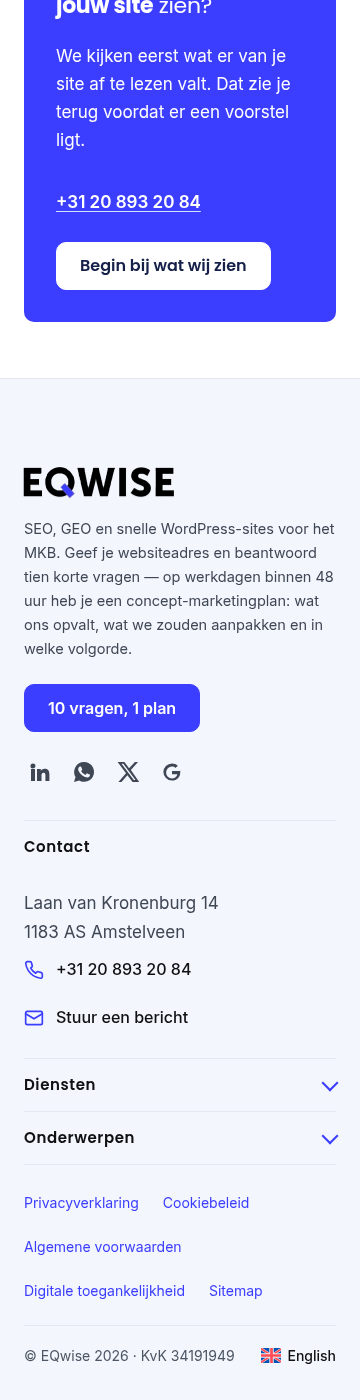
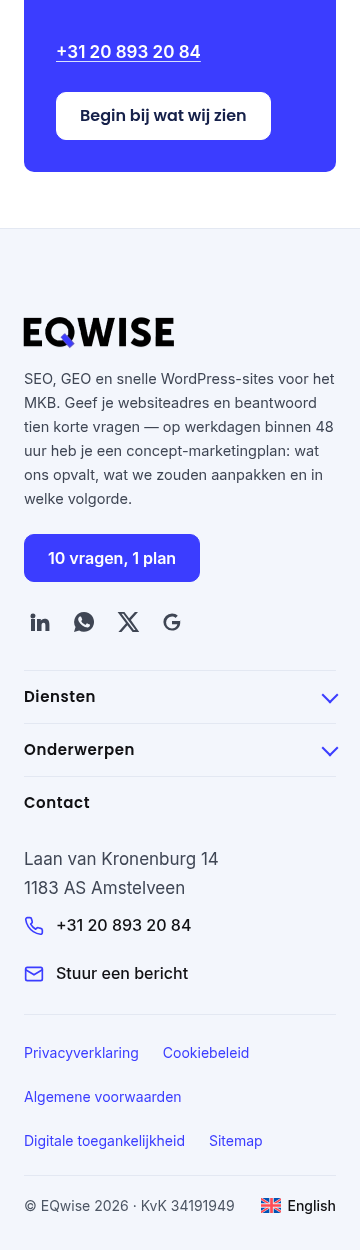
Footer mobiel: Contact onderaan, wel altijd open (wens Martin)
Claude-Session: https://claude.ai/code/session_01Aqojb1Sah9Aj4YGDLnYanC

diff --git a/ontwerp/footer-mobiel/eq-mobiel-9.70-voet.css b/ontwerp/footer-mobiel/eq-mobiel-9.70-voet.css
@@ -7,8 +7,9 @@
    beeld staat; Diensten stond open en de andere twee dicht. In het
    voettemplate staat de contactkolom nu als eerste kolom met een kop. Het
    script in eq-interactie.js zet op telefoon alleen de eerste uitklapper
-   open, en dat is daardoor Contact. Op 768 en breder zet `order` de
-   contactkolom terug als laatste kolom, dus desktop blijft zoals hij was.
+   open, en dat is daardoor Contact. `order` zet de contactkolom daarna
+   weer als laatste: op desktop als vierde kolom, op telefoon onderaan
+   onder Diensten en Onderwerpen (wens Martin, 12 okt 2026), wel open.
    Verder: de knop compact zoals op desktop, de juridische links links
    uitgelijnd in de merkkleur, copyright en taalkeuze samen op de slotregel.
    Alleen kindselectors: LiteSpeed schrijft `.a .b` terug naar `.b`.
@@ -29,10 +30,8 @@
 	display: none;
 }
 
-@media (min-width: 768px) {
-	.eq-voet-kolommen.eq-voet-kolommen > .eq-voet-contactkolom {
-		order: 1;
-	}
+.eq-voet-kolommen.eq-voet-kolommen > .eq-voet-contactkolom {
+	order: 1;
 }
 
 @media (max-width: 767px) {
@@ -53,10 +52,21 @@
 		margin-block-start: var(--eq-r24);
 	}
 
-	/* ---- contact: altijd open, geen uitklapper --------------------------- */
-	.eq-voet-kolommen.eq-voet-kolommen > .eq-voet-contactkolom {
+	/* ---- de kolommen als stapel, zodat `order` werkt ---------------------- */
+	.eq-voet-kolommen.eq-voet-kolommen {
+		display: flex;
+		flex-direction: column;
+		/* de grid-tussenruimte van de basis telt in een flexstapel ook mee */
+		gap: 0;
+	}
+
+	/* De eerste linkgroep onder het merkblok (Diensten, derde kind) krijgt
+	   lucht, zodat de social-iconen niet tegen de lijn staan. */
+	.eq-voet-kolommen.eq-voet-kolommen > :nth-child(3) {
 		margin-top: var(--eq-r32);
 	}
+
+	/* ---- contact: onderaan, altijd open, geen uitklapper ------------------ */
 
 	.eq-voet-contactkolom.eq-voet-contactkolom > .eq-voet-uitklap > summary {
 		pointer-events: none;
@@ -99,8 +109,8 @@
 		margin-top: 0;
 	}
 
-	/* ---- de linkgroepen sluiten af met een lijn -------------------------- */
-	.eq-voet-kolommen.eq-voet-kolommen > :last-child > .eq-voet-uitklap {
+	/* ---- contact sluit de kolommen af met een lijn ----------------------- */
+	.eq-voet-contactkolom.eq-voet-contactkolom > .eq-voet-uitklap {
 		border-bottom: var(--eq-randdikte) solid var(--eq-voet-lijn, var(--eq-lijn));
 	}
 
